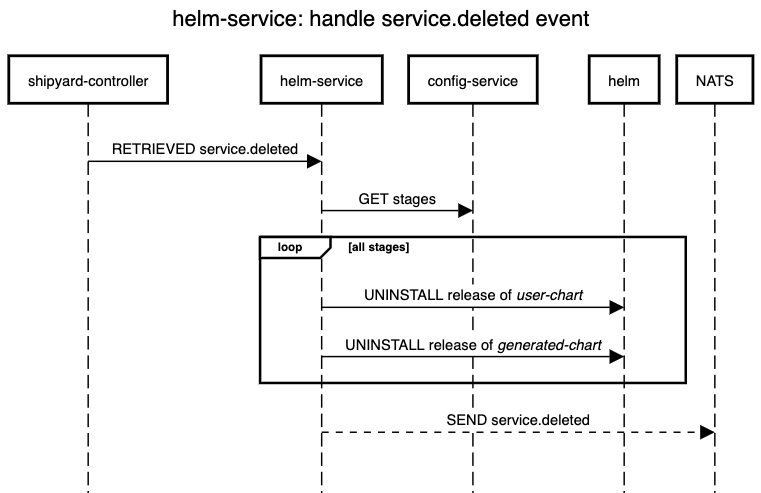
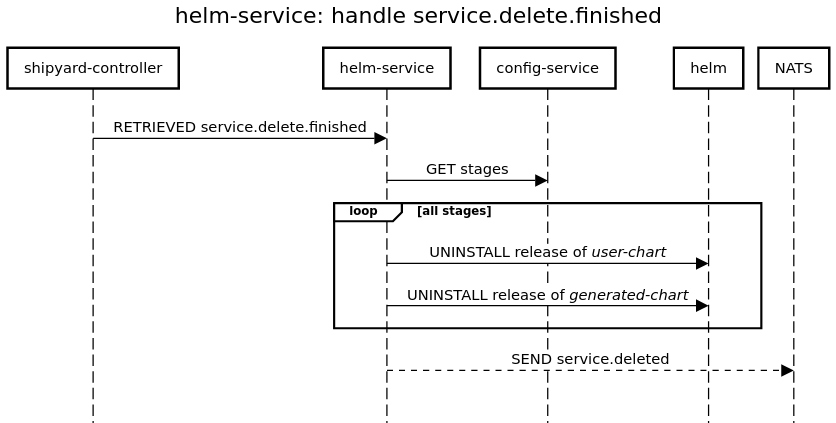
chore(helm-service): Remove `service.create.finished` subscription (#6181)

diff --git a/README.md b/README.md
@@ -30,16 +30,8 @@ You can use `skaffold run --tail` to build and deploy from this directory.
 The *helm-service* handles a set of events. The following sequence diagrams describe the respectively executed actions
 and the involved components.
 
-### Handling of `sh.keptn.event.service.created` events
-The `sh.keptn.event.service.created` event states that a new Keptn service has been created by the `shipyard-controller`.
-This event can contain a Helm chart (in case Keptn is used for Continuous Delivery).
-The `helm-service` processes this chart and stores it in the Git repo.
-
-![](sequence_diagrams/service-created.png)
-  
-
-### Handling of `sh.keptn.event.service.deleted` events
-The `sh.keptn.event.service.deleted` event states that a Keptn service has been deleted by the `shipyard-controller`.
+### Handling of `sh.keptn.event.service.delete.finished` events
+The `sh.keptn.event.service.delete.finished` event states that a Keptn service has been deleted by the `shipyard-controller`.
 In case this service was deployed by the `helm-service`, the `helm-service` uninstalls all releases of this Keptn service.
 
 ![](sequence_diagrams/service-deleted.png)
